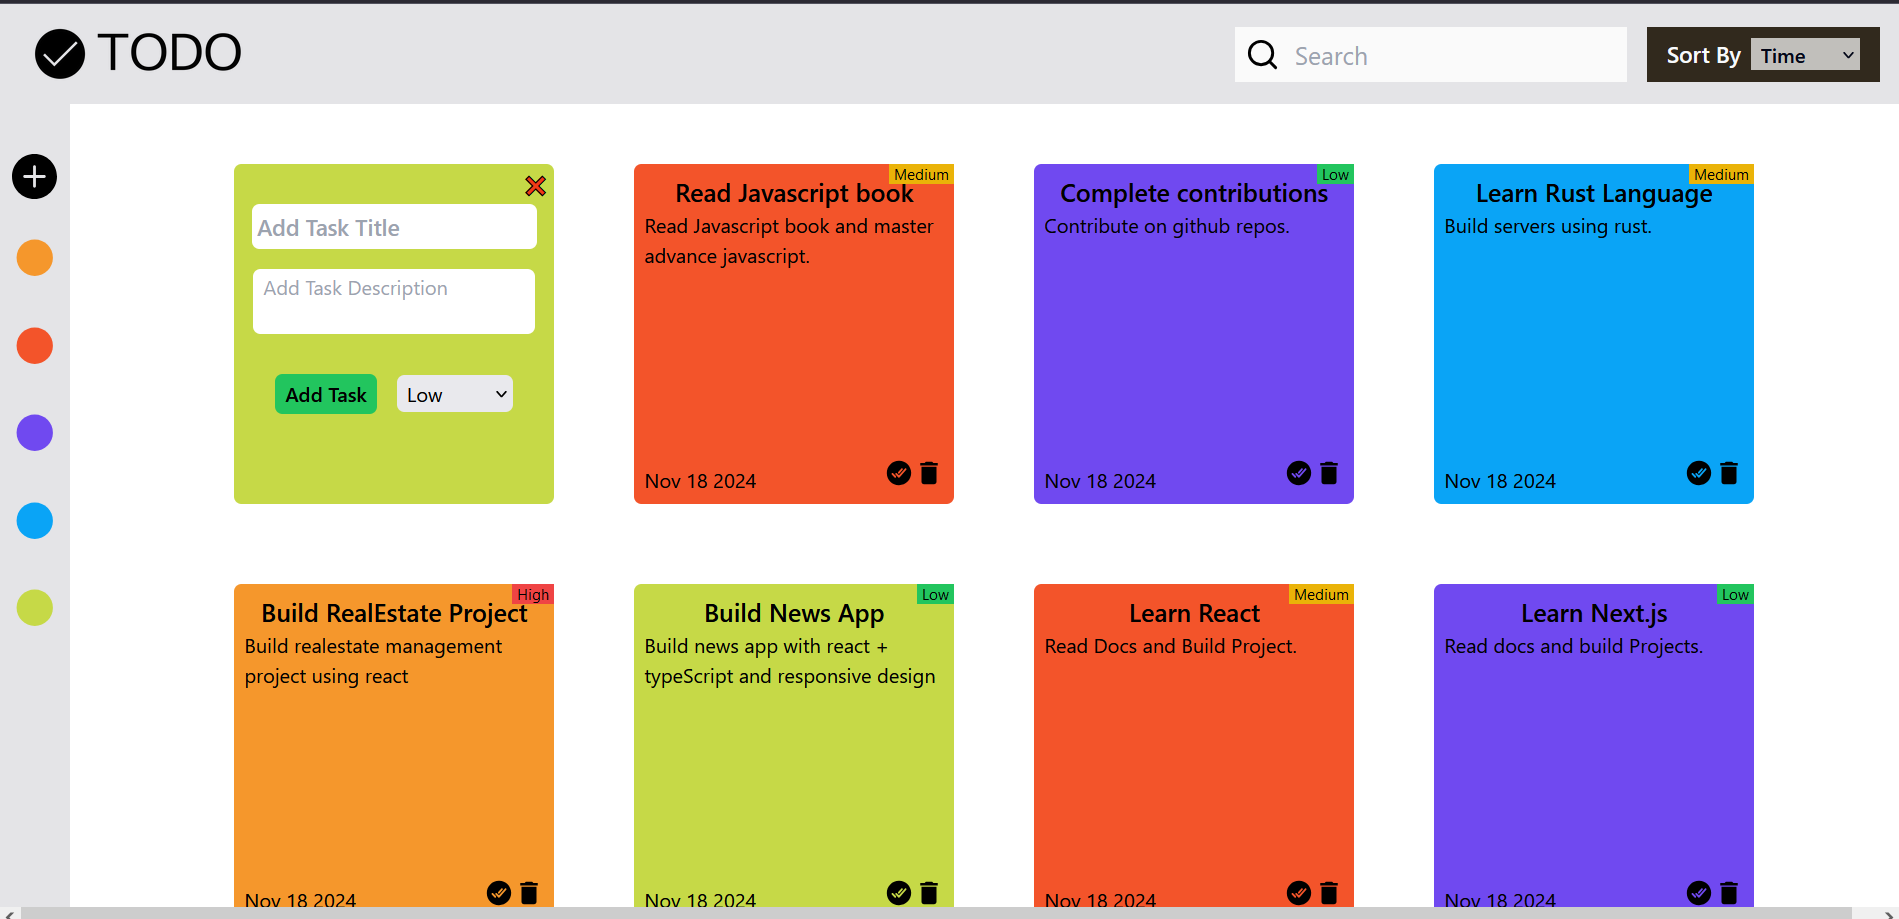
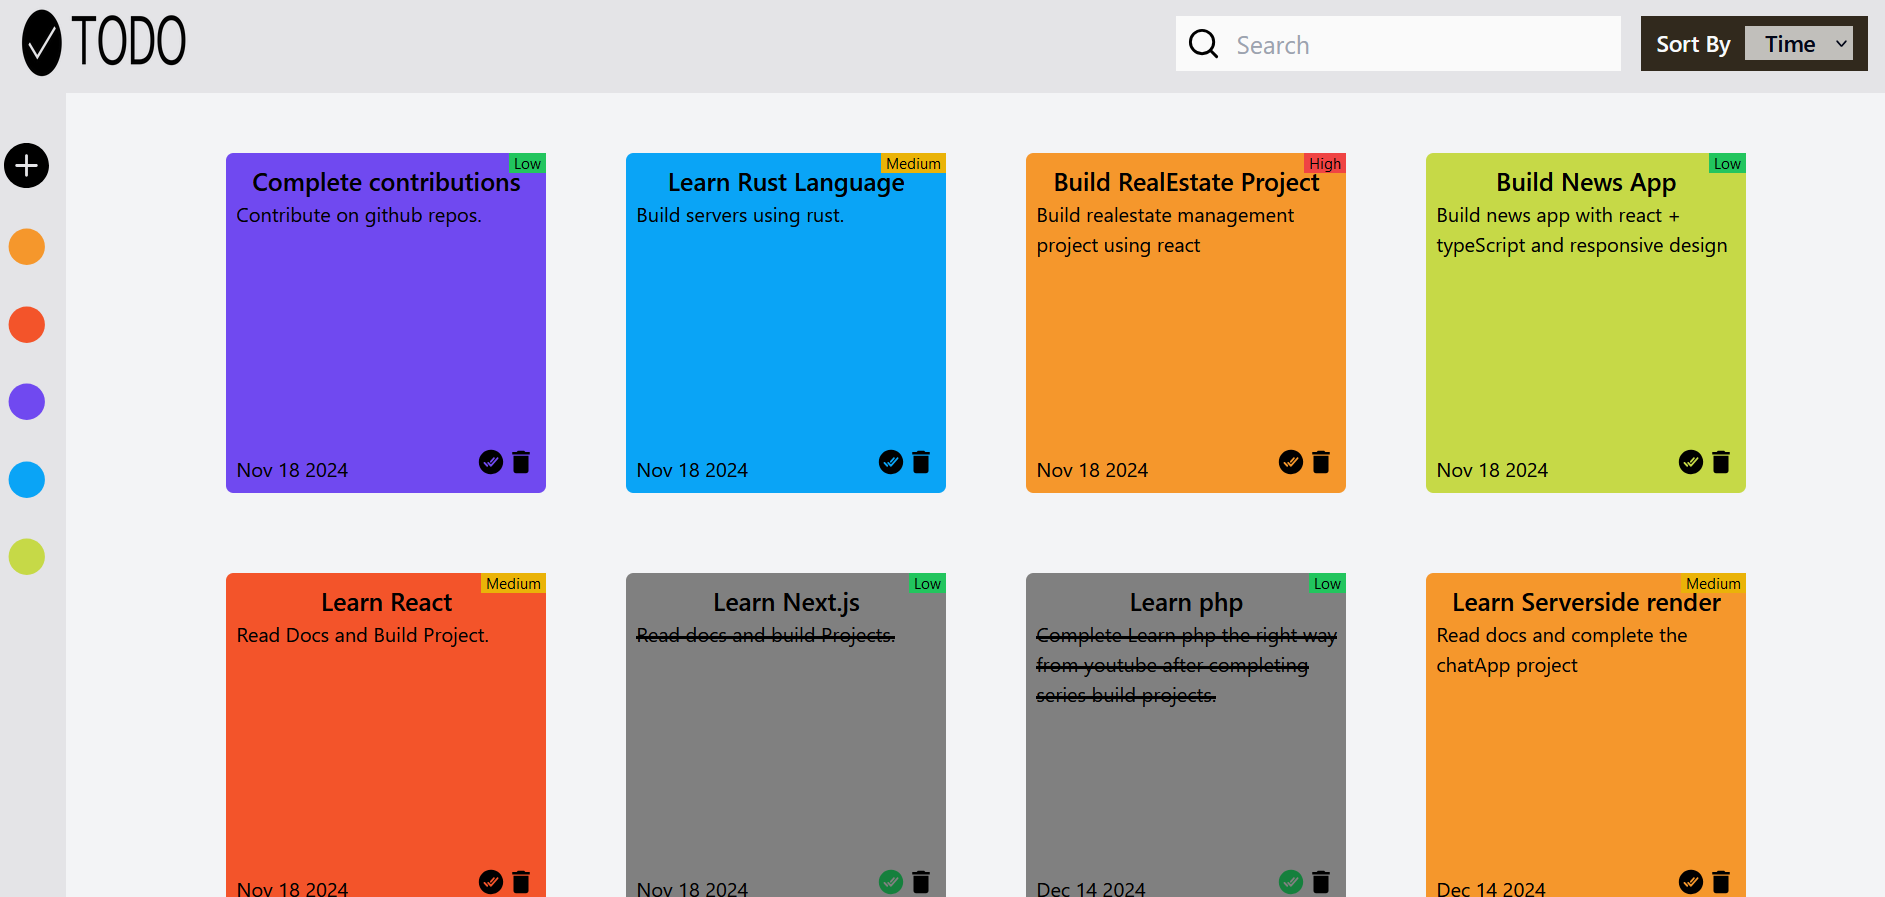
Implemented completed items

diff --git a/src/components/TaskItem.tsx b/src/components/TaskItem.tsx
@@ -31,14 +31,24 @@ function TaskItem({ taskData }: TaskItemProps) {
   }
   return (
     <div
-      className="min-w-[16rem] max-w-[16rem] min-h-[17rem] rounded-md relative"
-      style={{ backgroundColor: taskData.bgColor }}
+      className={`min-w-[16rem] max-w-[16rem] min-h-[17rem] rounded-md relative ${
+        taskData.completed ? "bg-gray-400" : `bg-[${taskData.bgColor}]`
+      }`}
+      style={{
+        backgroundColor: taskData.completed ? "gray" : taskData.bgColor,
+      }}
     >
       {renderPriority()}
       <div className="pt-2 text-xl font-semibold text-center">
         {taskData.title}
       </div>
-      <div className="pl-2 text-md text-wrap">{taskData.description}</div>
+      <div
+        className={`pl-2 text-md text-wrap decoration-2 ${
+          taskData.completed ? "line-through" : ""
+        }`}
+      >
+        {taskData.description}
+      </div>
       <div className="absolute bottom-2 left-2">{taskData.date}</div>
 
       <div className="absolute bottom-2 right-2">
@@ -59,7 +69,7 @@ function TaskItem({ taskData }: TaskItemProps) {
           <IoCheckmarkDoneCircle
             className={
               taskData.completed
-                ? "text-2xl text-green-600"
+                ? "text-2xl text-green-700"
                 : "text-2xl hover:text-green-600"
             }
           />
